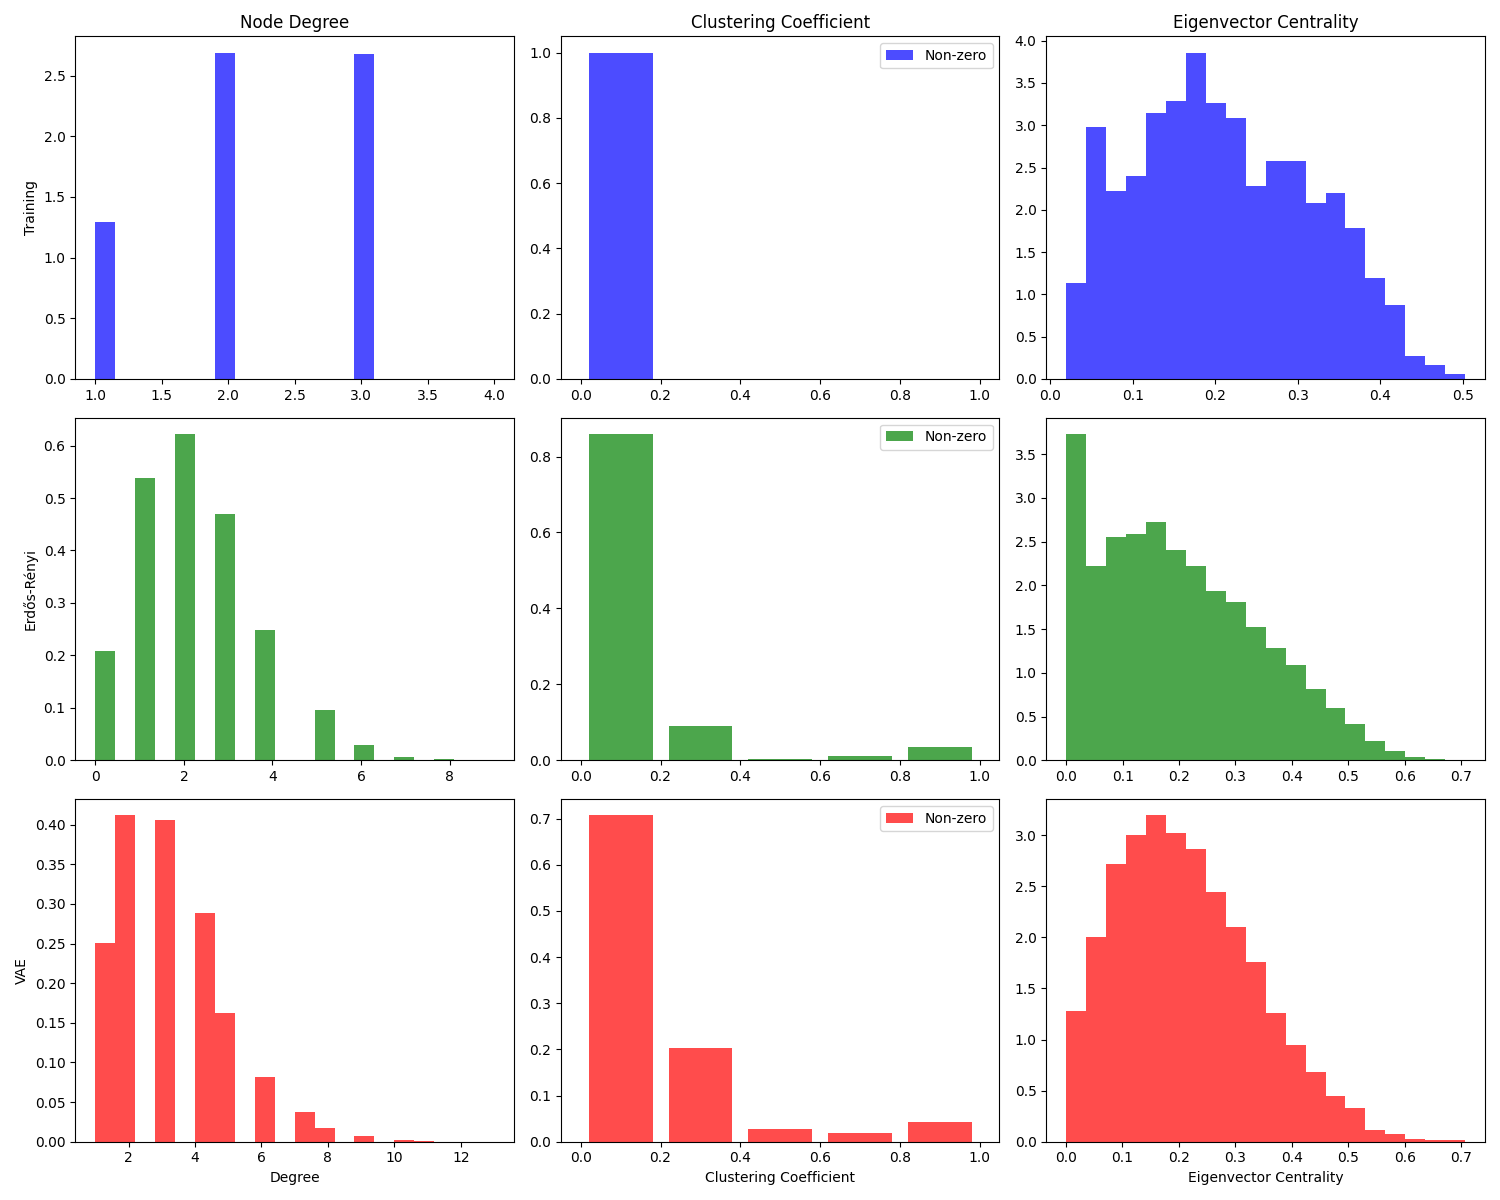
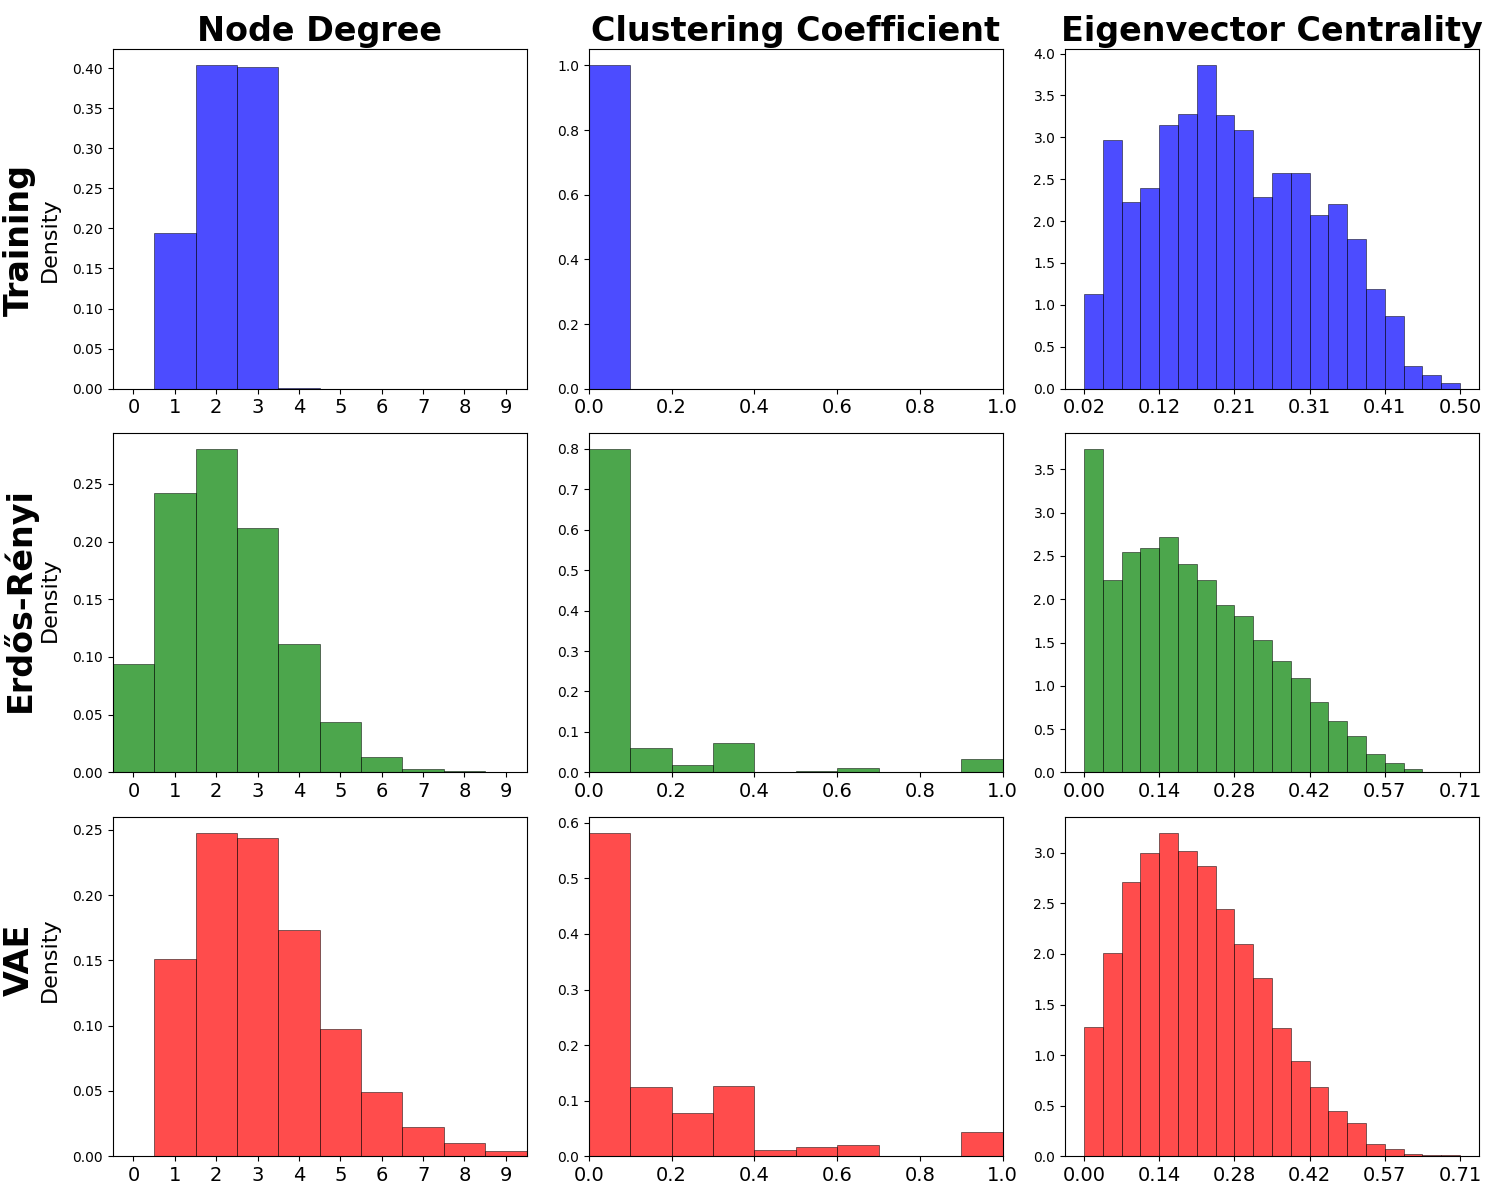
fixing plots

diff --git a/eval/visualization.py b/eval/visualization.py
@@ -37,72 +37,161 @@ def plot_sampled_graphs_collage(sampled_graphs, rows=3, cols=3, figsize=(15, 15)
     plt.close()
     print(f"📊 Saved collage to {save_path}")
 
+def plot_degree_distributions(axes, all_degrees, colors, row_labels):
+    """
+    Plot node degree distributions for different graph sources.
+    
+    Parameters:
+    -----------
+    axes : list of matplotlib.axes
+        List of axes to plot on
+    all_degrees : list of lists
+        Lists of degree values for each graph source
+    colors : list
+        Colors to use for each graph source
+    row_labels : list
+        Labels for each graph source
+    """
+    for i, degrees in enumerate(all_degrees):
+        color = colors[i]
+        
+        # Create fixed bins from 0 to 9 with integer steps (no gaps)
+        bins = np.arange(0, 11) - 0.5  # Edges at -0.5, 0.5, 1.5, ..., 9.5
+        
+        # Plot node degree histogram with fixed bins
+        axes[i].hist(degrees, bins=bins, color=color, alpha=0.7, density=True, 
+                    rwidth=1.0,  edgecolor='black', linewidth=0.5)  # Added black edges
+          # rwidth=1.0 ensures no gaps between bars
+
+        
+        # Set x-axis limits and ticks consistently for all plots
+        axes[i].set_xlim(-0.5, 9.5)
+        axes[i].set_xticks(range(0, 10))
+        # Increase font size of x-axis tick labels
+        axes[i].tick_params(axis='x', labelsize=14)
+
+def plot_clustering_distributions(axes, all_clustering, colors, row_labels):
+    """
+    Plot clustering coefficient distributions for different graph sources.
+    
+    Parameters:
+    -----------
+    axes : list of matplotlib.axes
+        List of axes to plot on
+    all_clustering : list of lists
+        Lists of clustering coefficient values for each graph source
+    colors : list
+        Colors to use for each graph source
+    row_labels : list
+        Labels for each graph source
+    """
+    for i, clustering in enumerate(all_clustering):
+        color = colors[i]
+        
+        # Use finer bins for clustering coefficients (0 to 1)
+        num_bins = 10  # Increased from 5 to 10 for finer granularity
+        bin_edges = np.linspace(0, 1, num_bins + 1)  # Equally spaced bins from 0 to 1
+        
+        # Count values in bins and normalize
+        total_count = len(clustering)
+        hist, _ = np.histogram(clustering, bins=bin_edges)
+        hist = hist / total_count if total_count > 0 else hist
+        
+        # Plot bars aligned with bin edges instead of centered, with black edges
+        bin_width = bin_edges[1] - bin_edges[0]
+        axes[i].bar(bin_edges[:-1], hist, width=bin_width, 
+                   color=color, alpha=0.7,
+                   align='edge', edgecolor='black', linewidth=0.5)  # Added black edges
+        
+        # Set consistent x limits and tick marks at more readable intervals
+        axes[i].set_xlim(0, 1.0)
+        # Show fewer tick marks to avoid crowding
+        tick_positions = np.linspace(0, 1, 6)  # 0.0, 0.2, 0.4, 0.6, 0.8, 1.0
+        axes[i].set_xticks(tick_positions)
+        axes[i].set_xticklabels([f'{x:.1f}' for x in tick_positions])
+        # Increase font size of x-axis tick labels
+        axes[i].tick_params(axis='x', labelsize=14)
+        
+
+def plot_eigenvector_distributions(axes, all_eigenvector, colors, row_labels):
+    """
+    Plot eigenvector centrality distributions for different graph sources.
+    
+    Parameters:
+    -----------
+    axes : list of matplotlib.axes
+        List of axes to plot on
+    all_eigenvector : list of lists
+        Lists of eigenvector centrality values for each graph source
+    colors : list
+        Colors to use for each graph source
+    row_labels : list
+        Labels for each graph source
+    """
+    for i, eigenvector in enumerate(all_eigenvector):
+        color = colors[i]
+        
+        # Plot eigenvector centrality histogram
+        axes[i].hist(eigenvector, bins=20, color=color, alpha=0.7, density=True, edgecolor='black', linewidth=0.5)  # Added black edges
+        
+        
+        # Set appropriate ticks for eigenvector centrality histogram
+        if eigenvector:
+            max_eigen = max(eigenvector)
+            min_eigen = min(eigenvector)
+            eigen_ticks = np.linspace(min_eigen, max_eigen, 6)
+            axes[i].set_xticks(eigen_ticks)
+            axes[i].set_xticklabels([f'{x:.2f}' for x in eigen_ticks])
+            # Increase font size of x-axis tick labels
+            axes[i].tick_params(axis='x', labelsize=14)
+
 def plot_graph_statistics(training_degrees, training_clustering, training_eigenvector,
                           erdos_renyi_degrees, erdos_renyi_clustering, erdos_renyi_eigenvector,
                           generated_degrees, generated_clustering, generated_eigenvector,
                           save_path='graph_statistics_comparison_columns.png'):
     """Plot histograms of graph statistics for comparison."""
+    # Create figure with more left padding for labels
     fig, axes = plt.subplots(3, 3, figsize=(15, 12))
-    
     # Set titles for columns
-    axes[0, 0].set_title('Node Degree')
-    axes[0, 1].set_title('Clustering Coefficient')
-    axes[0, 2].set_title('Eigenvector Centrality')
+    axes[0, 0].set_title('Node Degree', fontweight='bold', fontsize=24)
+    axes[0, 1].set_title('Clustering Coefficient', fontweight='bold', fontsize=24)
+    axes[0, 2].set_title('Eigenvector Centrality', fontweight='bold', fontsize=24)
     
     # Row labels
     row_labels = ['Training', 'Erdős-Rényi', 'VAE']
+    
+    # Add row labels as bold text on the left side
     for i, label in enumerate(row_labels):
-        axes[i, 0].set_ylabel(label)
+        # Position the labels within the figure boundary
+        fig.text(0.013, 0.8 - i*0.3, label, fontweight='bold', ha='center', va='center', 
+                rotation='vertical', fontsize=24)
+    
+        # Add global "Density" label
+        fig.text(0.033, 0.8 - i*0.3, 'Density', ha='center', va='center', 
+                rotation='vertical', fontsize=16)
     
     # Colors for different data sources
     colors = ['blue', 'green', 'red']
     
-    # Group data for iteration
+    # Group data for each type of statistic
     all_degrees = [training_degrees, erdos_renyi_degrees, generated_degrees]
     all_clustering = [training_clustering, erdos_renyi_clustering, generated_clustering]
     all_eigenvector = [training_eigenvector, erdos_renyi_eigenvector, generated_eigenvector]
     
-    for i, (degrees, clustering, eigenvector) in enumerate(zip(all_degrees, all_clustering, all_eigenvector)):
-        color = colors[i]
-        
-        # Plot node degree
-        axes[i, 0].hist(degrees, bins=20, color=color, alpha=0.7, density=True)
-        
-        # Handle clustering coefficient - Split into zero and non-zero values
-        total_count = len(clustering)
-
-        # Add non-zero values as a histogram on same plot if they exist
-
-        # Count non-zeros in bins
-        hist, bin_edges = np.histogram(clustering, bins=5, range=(0, 1))
-        bin_centers = (bin_edges[:-1] + bin_edges[1:]) / 2
-        # Normalize to get density
-        hist = hist / total_count
-        
-        # Plot as bars with consistent scaling
-        bin_width = bin_edges[1] - bin_edges[0]
-        axes[i, 1].bar(bin_centers, hist, width=bin_width*0.8, 
-                        color=color, alpha=0.7, label='Non-zero')
+    # Plot each type of statistic using specialized functions
+    plot_degree_distributions(axes[:, 0], all_degrees, colors, row_labels)
+    plot_clustering_distributions(axes[:, 1], all_clustering, colors, row_labels)
+    plot_eigenvector_distributions(axes[:, 2], all_eigenvector, colors, row_labels)
     
-        # Add legend, set limits and labels
-        axes[i, 1].legend(loc='upper right')
-        axes[i, 1].set_xlim(-0.05, 1.05)
-        # axes[i, 1].set_xticks([0, 0.2, 0.4, 0.6, 0.8, 1.0])
-        
-        # Plot eigenvector centrality
-        axes[i, 2].hist(eigenvector, bins=20, color=color, alpha=0.7, density=True)
-        
-        # Set labels for bottom row
-        if i == 2:
-            axes[i, 0].set_xlabel('Degree')
-            axes[i, 1].set_xlabel('Clustering Coefficient')
-            axes[i, 2].set_xlabel('Eigenvector Centrality')
+    # Set bottom row labels
+    # axes[2, 0].set_xlabel('Degree')
+    # axes[2, 1].set_xlabel('Clustering Coefficient')
+    # axes[2, 2].set_xlabel('Eigenvector Centrality')
     
-    plt.tight_layout()
+    plt.tight_layout(rect=[0.038, 0, 1, 1])  # Adjust layout but preserve left space for labels
     plt.savefig(save_path)
     plt.close()
     print(f"📊 Saved graph statistics to {save_path}")
-
 
 def plot_graph_comparison(training_samples, erdos_samples, vae_samples, save_path='graph_comparison.png', 
                          grid_height_ratios=[10, 10, 10, 1],
